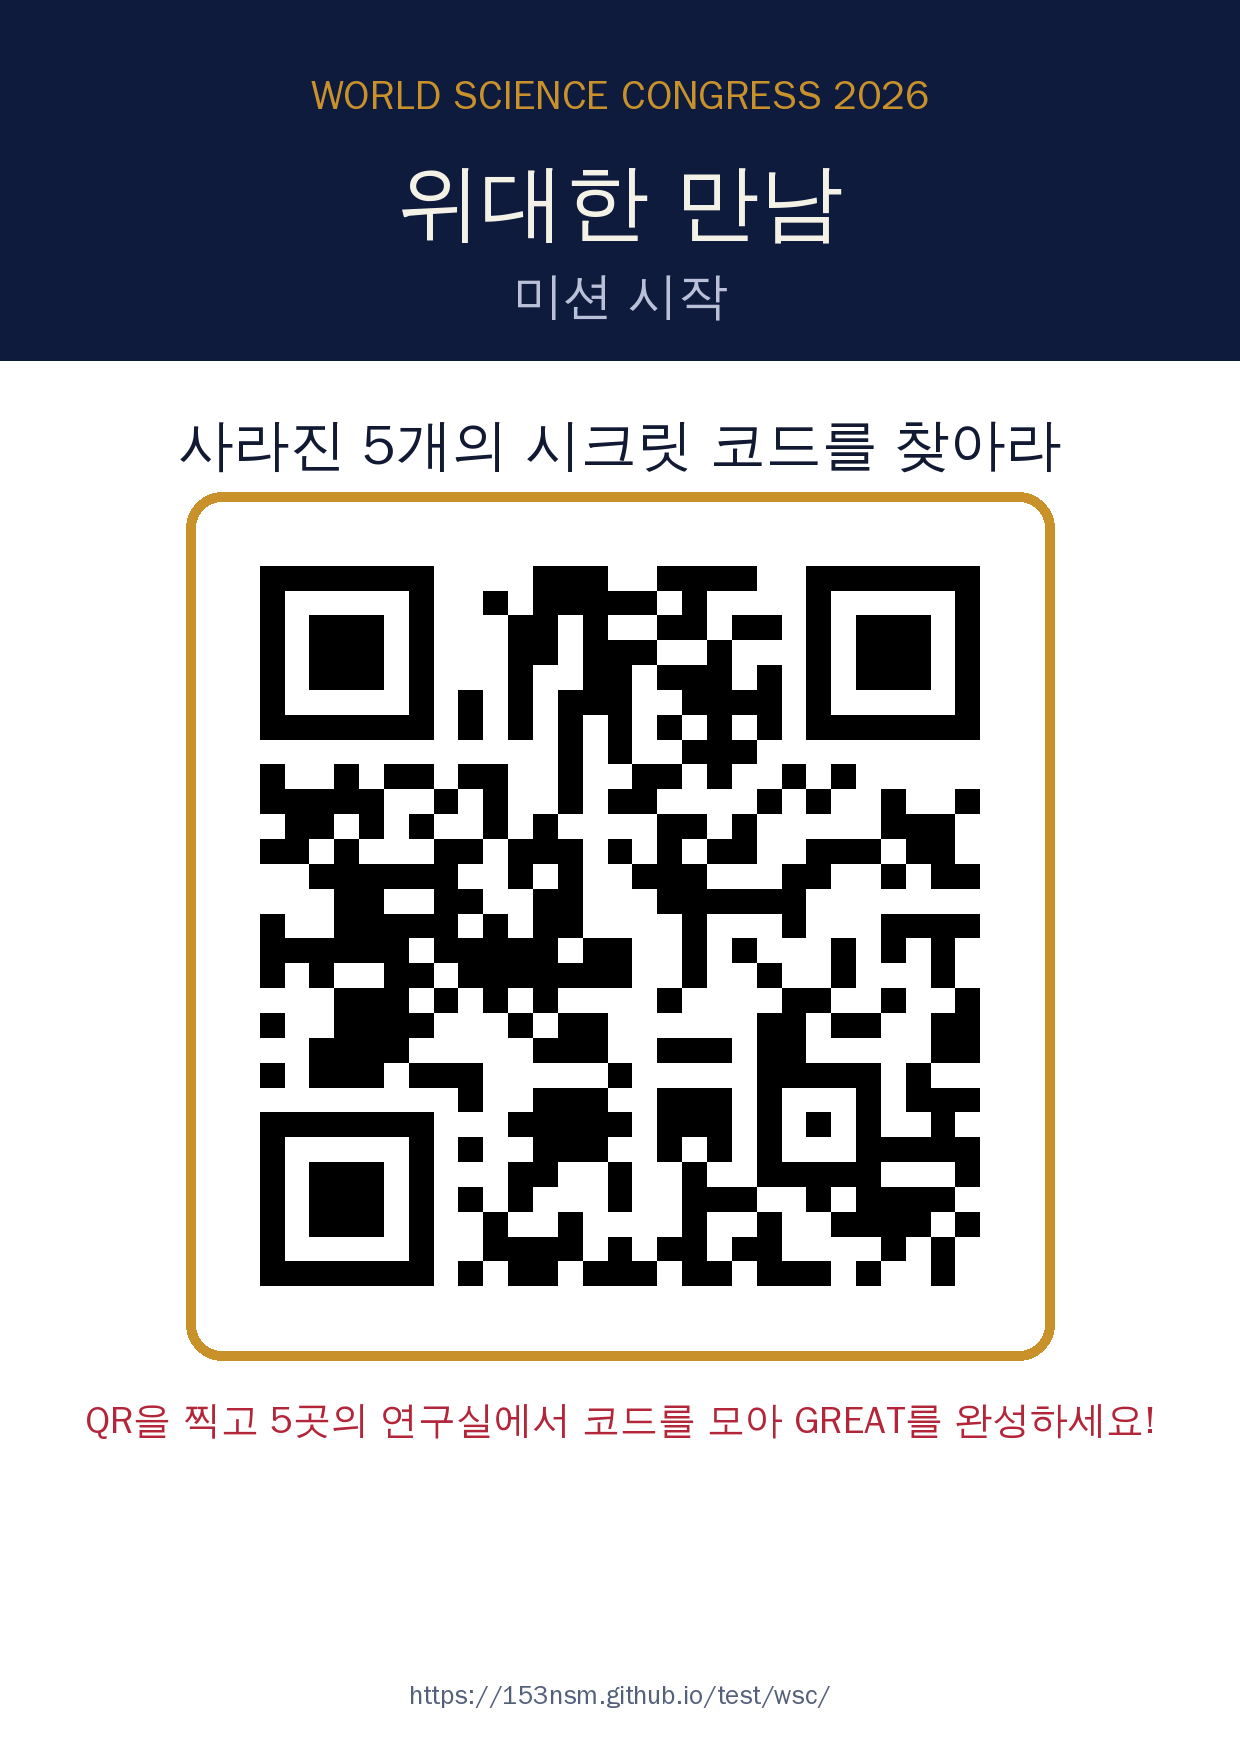
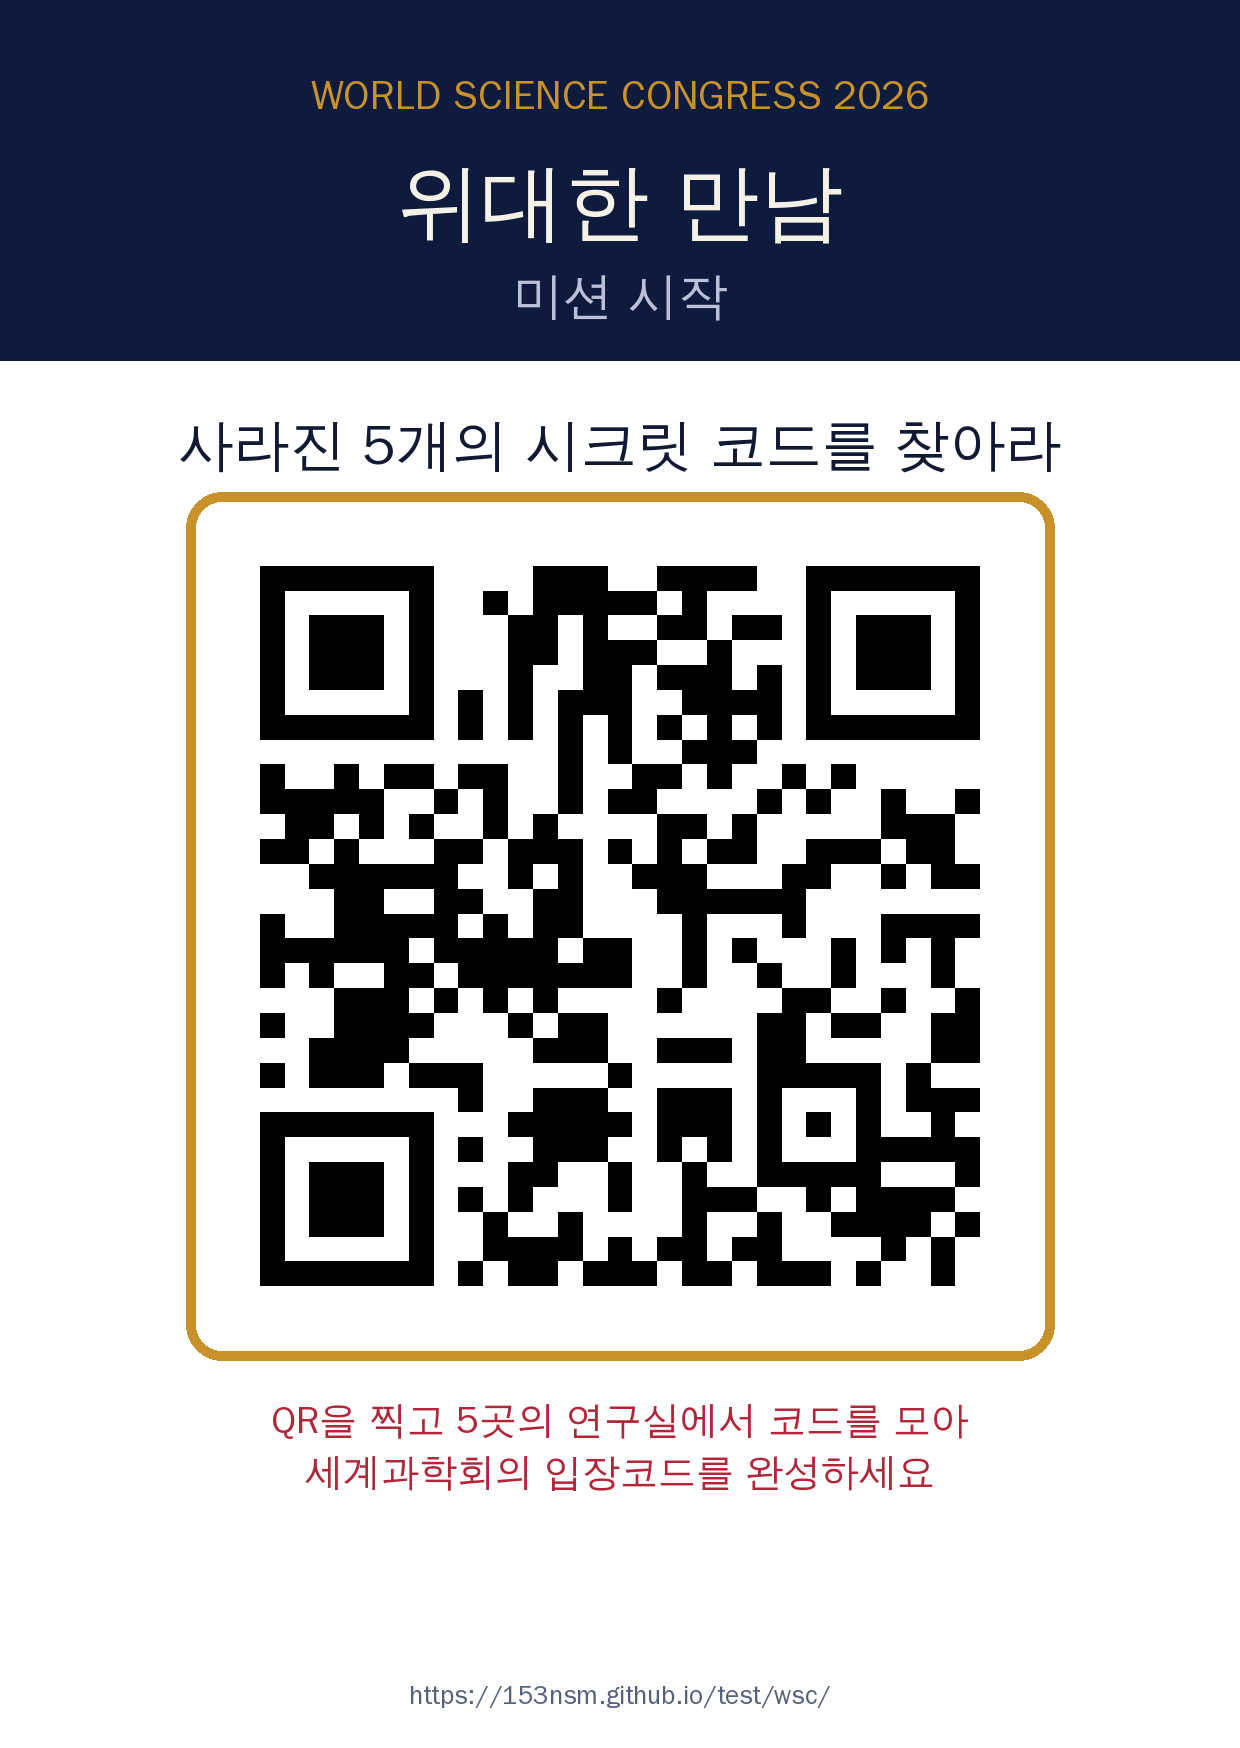
시작 QR 카드 안내 문구를 '세계과학회의 입장코드'로 수정
카드 아래 문구를 두 줄로 나눠 크게 보이게 하고, 묶음 PDF도 다시 만들었다.

Claude-Session: https://claude.ai/code/session_01Vk67h26fsFxkQqeoUmQth2

Changed region(s): [[0.0613, 0.8032, 0.9194, 0.865]]

diff --git a/wsc/tools/make_qr.py b/wsc/tools/make_qr.py
@@ -20,7 +20,7 @@ MUTED = (85, 96, 122)
 
 CARDS = [
     ("00-start", BASE, "위대한 만남", "미션 시작", "사라진 5개의 시크릿 코드를 찾아라",
-     None, "QR을 찍고 5곳의 연구실에서 코드를 모아 GREAT를 완성하세요!"),
+     None, "QR을 찍고 5곳의 연구실에서 코드를 모아\n세계과학회의 입장코드를 완성하세요"),
     ("01-jang-G", BASE + "?lab=jang", "장영실 연구실", "앙부일구", "「그림자의 비밀」을 밝혀라",
      "앙부일구 전시품 앞", "QR을 찍고 문제를 맞히면 시크릿 코드를 받아요"),
     ("02-kepler-R", BASE + "?lab=kepler", "요하네스 케플러 연구실", "KEPLER LAB", "행성의 진짜 길을 찾아라",
@@ -73,7 +73,8 @@ def make_card(name, url, eyebrow, lab, title, place, note):
     y = qy + 820 + 60
     if place:
         y = centered(d, y, "위치 · " + place, font(42), RED) + 24
-    centered(d, y, note, font(38), MUTED if place else RED)
+    for line in note.split("\n"):
+        y = centered(d, y, line, font(38), MUTED if place else RED) + 14
     centered(d, H - 70, url, font(26), MUTED)
 
     path = os.path.join(OUT, name + ".png")
